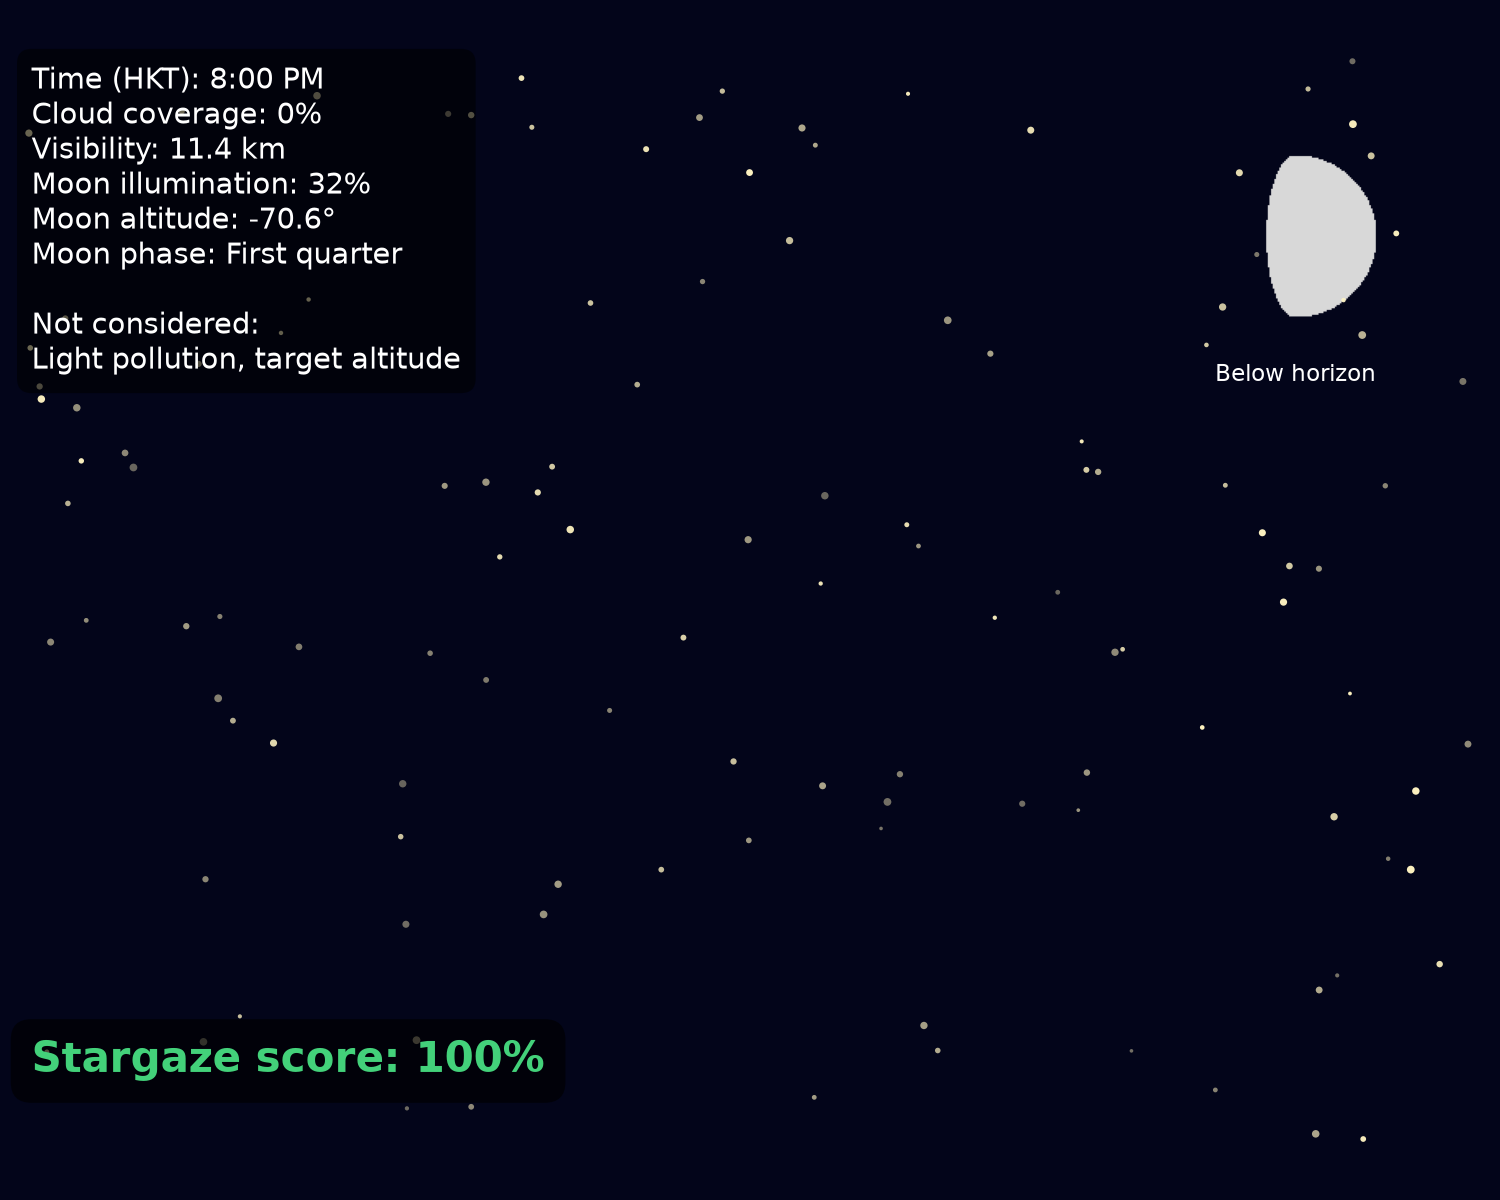
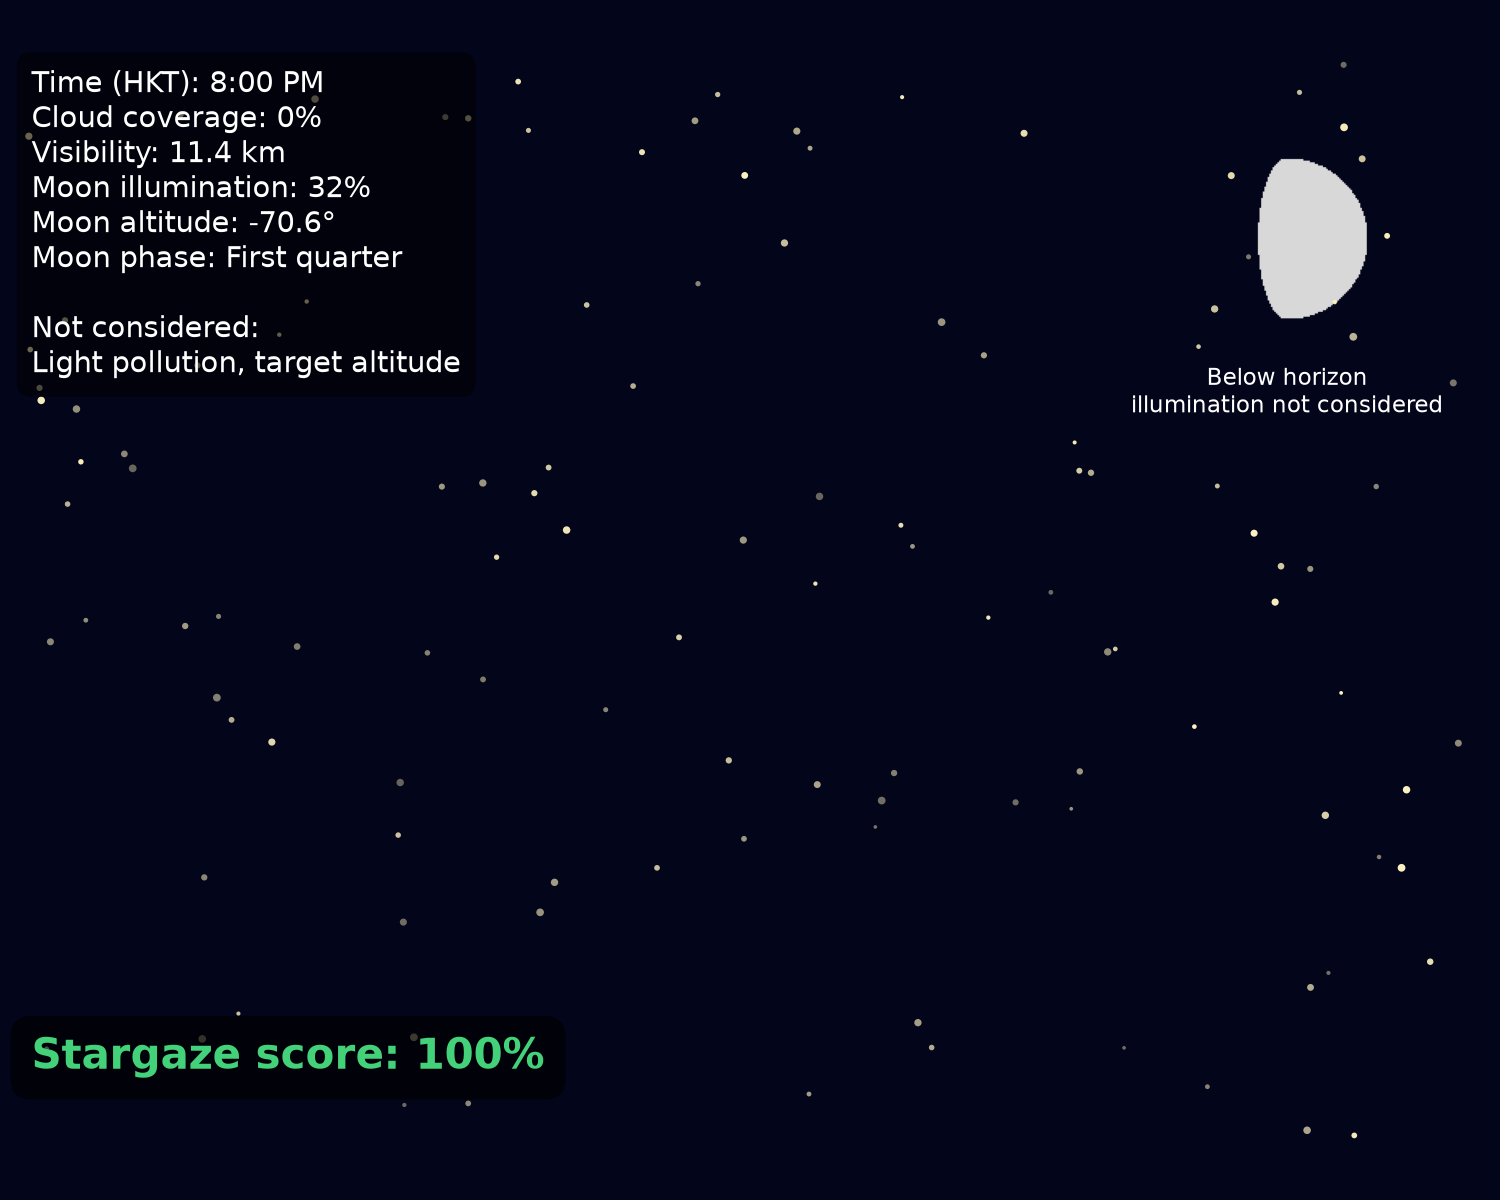
Clarified `below horizon` label

diff --git a/plot.py b/plot.py
@@ -111,7 +111,8 @@ def main():
               extent=(moon_x - 0.45, moon_x + 0.45,
                       moon_y - 0.45, moon_y + 0.45))
     ax.text(moon_x, moon_y - 0.7,
-            "Visible" if moon_altitude > 0 else "Below horizon",
+            "Visible" if moon_altitude > 0
+            else "Below horizon\nillumination not considered",
             ha="center", va="top", fontsize=11, color="white")
     cloud = imread(SPRITE)
     variation = random.Random(42)
